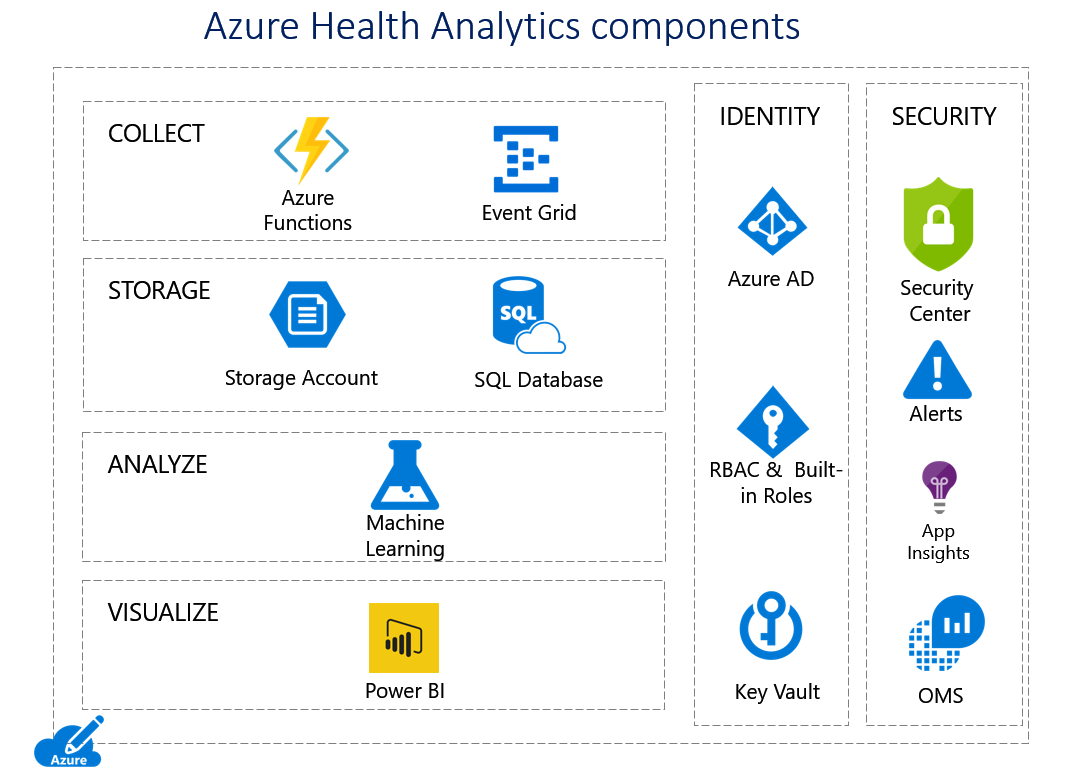
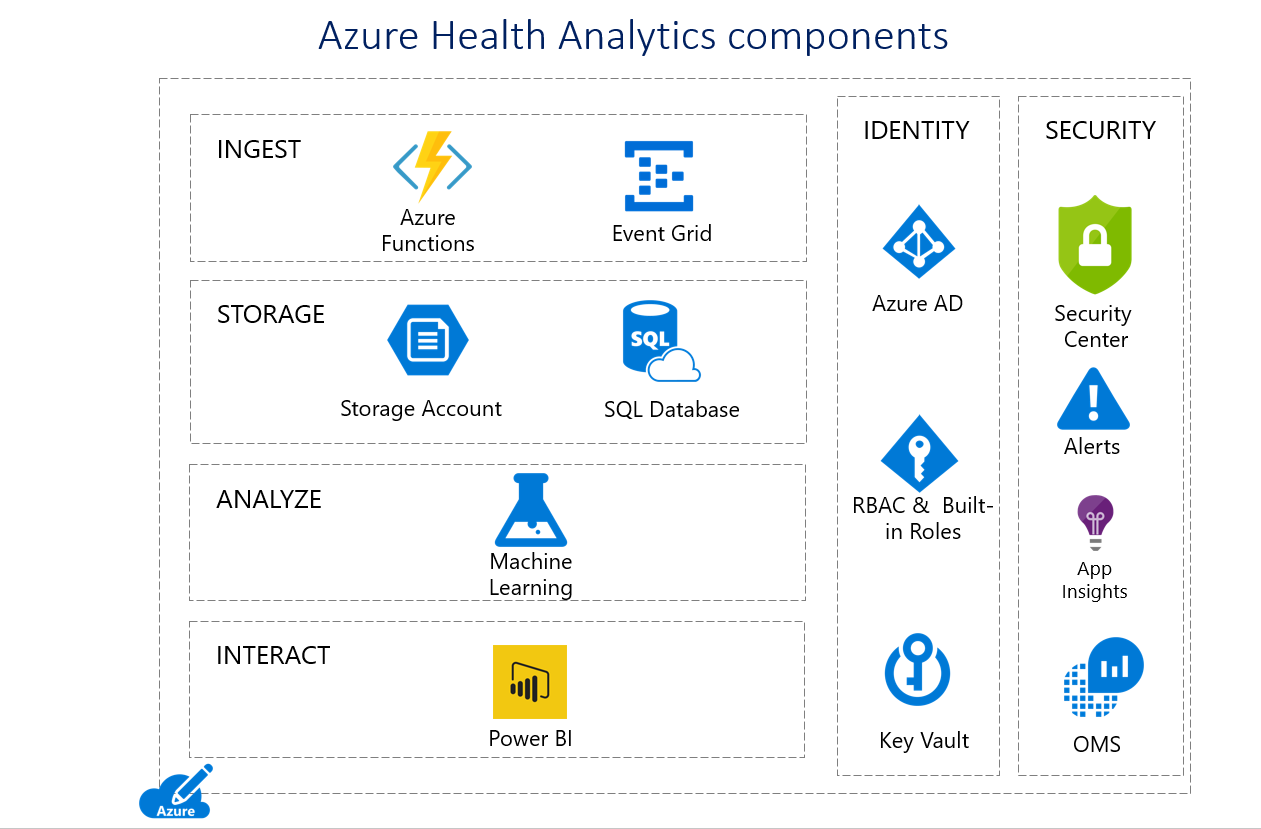
Revised to newer marcom style

diff --git a/AzureHealthDocs.md b/AzureHealthDocs.md
@@ -241,7 +241,7 @@ managing an on-premise network and reduce costs for management. Alex has
 been evaluating Azure for some time but has struggled to configure the
 services that he needs to meet the HiTrust compliance requirements to
 store Patient Data in the cloud. Alex has just selected the Azure
-Blueprint for Healthcare to deploy a compliance-ready healthcare
+Health Analytics to deploy a compliance-ready health
 solution, which has addressed the requirements to meet the customer
 requirements for HiTrust.
 
@@ -297,10 +297,10 @@ can be used to store, process, and display sensitive personal data.
 This section details the default configurations and security measures
 built into the Azure Health Analytics Blueprint outlined to:
 
-- **COLLECT** data raw sources including FHIR data source
-- **STORAGE** of sensitive information
+- **INGEST** data raw sources including FHIR data source
+- **STORE**  sensitive information
 - **ANALYZE** and predict outcomes
-- **VISUALIZE** outcomes, and perditions
+- **INTERACT** with the results and perditions
 - **IDENTITY** management of solution
 - **SECURITY** enabled features
 
@@ -382,7 +382,7 @@ built into the Azure Health Analytics Blueprint outlined to:
 ## COLLECT 
 
 ### Azure Functions
-The solution was designed to  use [Azure Functions](https://docs.microsoft.com/en-us/azure/azure-functions/) to process the sample lenght of stay data used in the analytics demo. Three capabilities in the fuctions have been created.
+The solution was designed to  use [Azure Functions](https://docs.microsoft.com/en-us/azure/azure-functions/) to process the sample length of stay data used in the analytics demo. Three capabilities in the functions have been created.
 
 **1. Bulk import of customer data ephi data**
 
@@ -409,11 +409,11 @@ When using the demo script. .\\HealthcareDemo.ps1 with the **BulkPatientadmissio
 
 **2. Key Vault** requested for a secret that will be associated to the requested token.
 
-**3. Azure Roles** validate the request, and permission levels to the request.
+**3. Azure Roles** validate the request, and authorizes access request to the Key Vault.
 
-**4. Key Vault** generates a secret and conntection string to Azure SQL.
+**4. Key Vault** returns the secret, in this case the SQL DB Connection string.
 
-**5. Azure SQL DB** uses the connection string to securly store ePHI data.
+**5. Azure Function** uses the connection string to securely connect to SQL Database and continues further processing to store ePHI data.
 
 To achive the storage of the data, a common API schema was implemented  following Fast Healthcare Interoperability Resources (FHIR, pronounced fire). The function was provided the following FHIR exchange elements:
 
@@ -709,14 +709,21 @@ dashboard sidebar, and under **Manage**, click **Properties**. The
 tenant ID is a GUID in the box labeled **Directory ID**.
 
 ```
--appInsightsPlan 
+-appInsightsPlan *\<Level number\>*
 ```
-Provides the ability to select your Application Insights plan level. 
+Provides the ability to select your Application Insights plan level. Default is set to 1.
+
 0 – Setup App Insights with Application Insights Basic Plan.
+
 1 – Setup App insights with Application Insights Enterprise Plan.
-2 –  Only deploys App Insights without any billing plan. 
+
+2 – Only deploys App Insights without any billing plan. 
 
 Subscriptions such as BizSpark, where there is a spending limits, the use of option "2" is required. 
+
+```
+-appInsightsPlan 2
+```
 
 
 ## Grant permissions in Azure Active Directory
